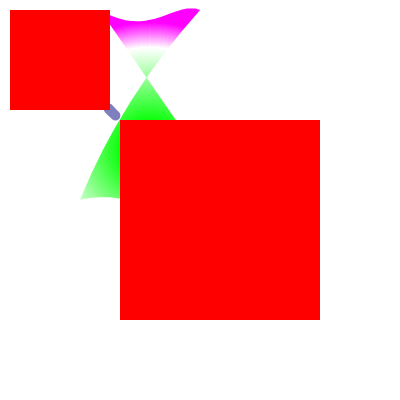
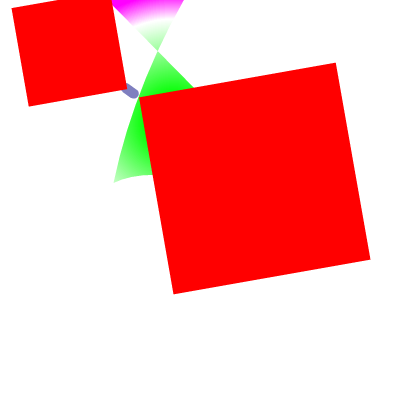
add transform

Changed region(s): [[0.0, 0.0, 0.93, 0.81]]

diff --git a/mod/lib.ts b/mod/lib.ts
@@ -6,6 +6,7 @@ import {
   dt_fill,
   dt_fill_rect,
   dt_get_data,
+  dt_set_transform,
   dt_stroke,
   dt_write_png,
   new_draw_target,
@@ -120,6 +121,12 @@ export class DrawTarget {
     const done = dt_destroy(this.id);
     if (done) DRAW_TARGETS.delete(this.id);
     return done;
+  }
+
+  setTransform(transform: Transform): DrawTarget {
+    const done = dt_set_transform(this.id, ...transform.data);
+    if (!done) throw new Error("Failed to setTransform");
+    return this;
   }
 }
 
@@ -260,5 +267,86 @@ export class Gradient {
   addStop(position: number, color: Color) {
     this.stops.push({ position, color });
     return this;
+  }
+}
+
+export enum AngleType {
+  Degrees,
+  Radians,
+}
+
+export class Angle {
+  type: AngleType;
+  val: number;
+
+  constructor(type: AngleType, val: number) {
+    this.type = type;
+    this.val = val;
+  }
+
+  static degrees(val: number) {
+    return new Angle(AngleType.Degrees, val);
+  }
+
+  static radians(val: number) {
+    return new Angle(AngleType.Radians, val);
+  }
+}
+
+export class Transform {
+  data: [
+    rc: number,
+    m11: number,
+    m21: number,
+    m31: number,
+    m12: number,
+    m22: number,
+    m32: number
+  ] = [0, 0, 0, 0, 0, 0, 0];
+
+  constructor(
+    rc: number,
+    m11: number,
+    m21: number,
+    m31: number,
+    m12: number,
+    m22: number,
+    m32: number
+  ) {
+    this.data = [rc, m11, m21, m31, m12, m22, m32];
+  }
+
+  static columnMajor(
+    m11: number,
+    m21: number,
+    m31: number,
+    m12: number,
+    m22: number,
+    m32: number
+  ) {
+    return new Transform(0, m11, m21, m31, m12, m22, m32);
+  }
+
+  static rowMajor(
+    m11: number,
+    m21: number,
+    m31: number,
+    m12: number,
+    m22: number,
+    m32: number
+  ) {
+    return new Transform(1, m11, m21, m31, m12, m22, m32);
+  }
+
+  static createScale(x: number, y: number) {
+    return new Transform(2, x, y, 0, 0, 0, 0);
+  }
+
+  static createTranslation(x: number, y: number) {
+    return new Transform(3, x, y, 0, 0, 0, 0);
+  }
+
+  static createRotation(angle: Angle) {
+    return new Transform(4, angle.type.valueOf(), angle.val, 0, 0, 0, 0);
   }
 }

diff --git a/mod/ops.ts b/mod/ops.ts
@@ -15,6 +15,7 @@ export const {
   op_dt_draw_image_at,
   op_dt_draw_image_with_size_at,
   op_dt_destroy,
+  op_dt_set_transform,
 } = (Deno as any).core.ops() as { [name: string]: number };
 
 export const encoder = new TextEncoder();
@@ -165,5 +166,21 @@ export function draw_image_with_size_at(
 ): boolean {
   return (
     dispatch_data(op_dt_draw_image_with_size_at, id, img, x, y, w, h) == "0"
+  );
+}
+
+export function dt_set_transform(
+  id: number,
+  rc: number,
+  m11: number,
+  m21: number,
+  m31: number,
+  m12: number,
+  m22: number,
+  m32: number
+) {
+  return (
+    dispatch_data(op_dt_set_transform, id, rc, m11, m21, m31, m12, m22, m32) ==
+    "0"
   );
 }

diff --git a/mod/test.ts b/mod/test.ts
@@ -1,4 +1,5 @@
 import {
+  Angle,
   Color,
   DrawTarget,
   Gradient,
@@ -6,10 +7,12 @@ import {
   PathBuilder,
   Point,
   Source,
+  Transform,
 } from "./lib.ts";
 import { LineCap, LineJoin, Spread } from "./types.ts";
 
 const dt = new DrawTarget(400, 400);
+dt.setTransform(Transform.createRotation(Angle.degrees(10)));
 
 const gradient = Source.createRadialGradient(
   new Gradient()

diff --git a/src/lib.rs b/src/lib.rs
@@ -1,4 +1,4 @@
-use raqote::{DrawTarget, Source, DrawOptions, SolidSource, Color, Image, Path, PathBuilder, Gradient, Spread, Point, GradientStop, StrokeStyle, LineCap, LineJoin};
+use raqote::{DrawTarget, Source, DrawOptions, SolidSource, Color, Image, Path, PathBuilder, Gradient, Spread, Point, GradientStop, StrokeStyle, LineCap, LineJoin, Transform};
 use std::collections::HashMap;
 use deno_core::plugin_api::Interface;
 use deno_core::{ZeroCopyBuf, Op};
@@ -177,6 +177,7 @@ pub fn deno_plugin_init(interface: &mut dyn Interface) {
     interface.register_op("op_dt_encode", op_dt_encode);
     interface.register_op("op_dt_destroy", op_dt_destroy);
     interface.register_op("op_dt_draw_image_at", op_dt_draw_image_at);
+    interface.register_op("op_dt_set_transform", op_dt_set_transform);
     interface.register_op("op_dt_draw_image_with_size_at", op_dt_draw_image_with_size_at);
 }
 
@@ -262,8 +263,6 @@ fn get_arg_src(args: &mut [ZeroCopyBuf], idx: usize) -> Result<Source, &str> {
         let val = res.unwrap();
         let json_res = deno_core::serde_json::from_str(val);
         if json_res.is_err() {
-            println!("src_json: {}", val);
-            eprintln!(" err_msg: {}", json_res.err().unwrap().to_string());
             Err("failed to parse json")
         } else {
             let json: JsonSource = json_res.unwrap();
@@ -555,6 +554,34 @@ fn op_dt_draw_image_with_size_at(
                 data: &*img.data
             }, &DrawOptions::new());
             let res= b"0";
+            Op::Sync(res.to_vec().into_boxed_slice())
+        } else { let res= b"1"; Op::Sync(res.to_vec().into_boxed_slice()) }
+    })
+}
+
+fn op_dt_set_transform(
+    _interface: &mut dyn Interface,
+    _args: &mut [ZeroCopyBuf],
+) -> Op {
+    let id = get_arg_u32(_args, 0).unwrap();
+    let rc = get_arg_u8(_args, 1).unwrap();
+    let m11 = get_arg_f32(_args, 2).unwrap();
+    let m21 = get_arg_f32(_args, 3).unwrap();
+    let m31 = get_arg_f32(_args, 4).unwrap();
+    let m12 = get_arg_f32(_args, 5).unwrap();
+    let m22 = get_arg_f32(_args, 6).unwrap();
+    let m32 = get_arg_f32(_args, 7).unwrap();
+    TARGETS.with(|map| {
+        if let Some(target) = map.borrow_mut().get_mut(&id) {
+            let mut res= b"0";
+            if rc == 0 { target.set_transform(&Transform::column_major(m11, m21, m31, m12, m22, m32)); }
+            else if rc == 1 { target.set_transform(&Transform::row_major(m11, m21, m31, m12, m22, m32)); }
+            else if rc == 2 { target.set_transform(&Transform::create_scale(m11, m21)); }
+            else if rc == 3 { target.set_transform(&Transform::create_translation(m11, m21)); }
+            else if rc == 4 {
+                let angle = if m11 == 0.0 { euclid::Angle::degrees(m21) } else { euclid::Angle::radians(m21) };
+                target.set_transform(&Transform::create_rotation(angle));
+            } else { res = b"1"; }
             Op::Sync(res.to_vec().into_boxed_slice())
         } else { let res= b"1"; Op::Sync(res.to_vec().into_boxed_slice()) }
     })
